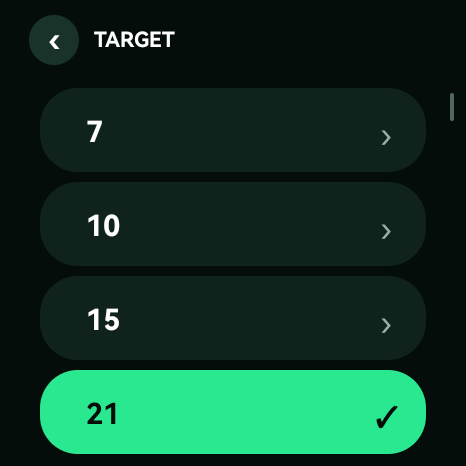
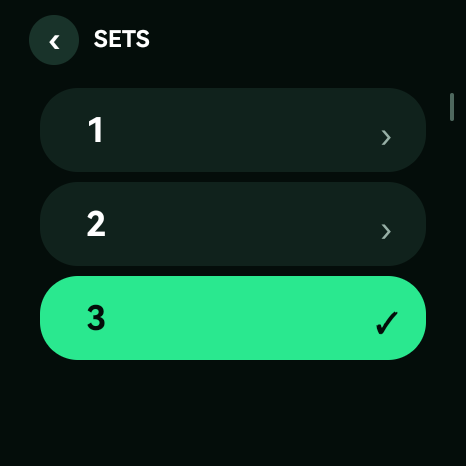
style: increase setup menu typography

diff --git a/entry/src/main/js/MainAbility/pages/index/index.css b/entry/src/main/js/MainAbility/pages/index/index.css
@@ -48,21 +48,21 @@
 
 .brand {
   color: #41d9ff;
-  font-size: 17px;
+  font-size: 19px;
   font-weight: 700;
   margin-top: 14px;
 }
 
 .page-title {
   color: #ffffff;
-  font-size: 23px;
+  font-size: 25px;
   font-weight: 700;
   text-align: center;
 }
 
 .mode-caption {
   color: #41d9ff;
-  font-size: 14px;
+  font-size: 15px;
   font-weight: 600;
   text-align: center;
   margin-top: 3px;
@@ -106,7 +106,7 @@
   height: 56px;
   border-radius: 28px;
   color: #ffffff;
-  font-size: 20px;
+  font-size: 26px;
   font-weight: 700;
   text-align: center;
 }
@@ -187,7 +187,7 @@
 .control-label {
   width: 120px;
   color: #eef3f0;
-  font-size: 16px;
+  font-size: 24px;
   font-weight: 700;
   margin-left: 10px;
 }
@@ -207,13 +207,13 @@
   border-radius: 27px;
   background-color: #252b36;
   color: #ffffff;
-  font-size: 28px;
+  font-size: 30px;
 }
 
 .number-value {
   width: 57px;
   color: #ffffff;
-  font-size: 28px;
+  font-size: 30px;
   font-weight: 700;
   text-align: center;
 }
@@ -237,7 +237,7 @@
 .toggle-label {
   width: 180px;
   color: #e9edf5;
-  font-size: 16px;
+  font-size: 24px;
   font-weight: 700;
   margin-left: 10px;
 }
@@ -257,7 +257,7 @@ switch {
   border-radius: 40px;
   background-color: #41d9ff;
   color: #071015;
-  font-size: 21px;
+  font-size: 26px;
   font-weight: 700;
 }
 

diff --git a/compat-android/src/com/vekom/padelprobe/MainActivity.java b/compat-android/src/com/vekom/padelprobe/MainActivity.java
@@ -248,17 +248,17 @@ public final class MainActivity extends Activity {
             rounded(canvas, 32, top, 434, top + ROW_HEIGHT, 40, panel);
             circleButton(canvas, 76, top + 45, 28, settingIcon(index),
                     settingColor(index), Color.WHITE, settingIcon(index).length() > 1 ? 14 : 19);
-            text(canvas, label.toUpperCase(), 120, top + 55, 20,
+            text(canvas, label.toUpperCase(), 120, top + 55, 24,
                     Color.WHITE, Paint.Align.LEFT, true);
             if (isNumericSetting(index)) {
-                text(canvas, value, 378, top + 56, 26,
+                text(canvas, value, 378, top + 56, 30,
                         green, Paint.Align.RIGHT, true);
                 text(canvas, "›", 412, top + 59, 36,
                         muted, Paint.Align.CENTER, false);
             } else {
                 rounded(canvas, 326, top + 25, 412, top + 65, 20,
                         isOnValue(value) ? green : panelLight);
-                text(canvas, value, 369, top + 52, 16,
+                text(canvas, value, 369, top + 52, 18,
                         isOnValue(value) ? background : Color.WHITE,
                         Paint.Align.CENTER, true);
             }
@@ -275,7 +275,7 @@ public final class MainActivity extends Activity {
                 boolean active = value == selected;
                 rounded(canvas, 40, top, 426, top + PICKER_HEIGHT, 38,
                         active ? green : panel);
-                text(canvas, Integer.toString(value), 86, top + 54, 29,
+                text(canvas, Integer.toString(value), 86, top + 54, 34,
                         active ? background : Color.WHITE, Paint.Align.LEFT, true);
                 if (active) {
                     text(canvas, "✓", 386, top + 57, 28,
@@ -297,9 +297,9 @@ public final class MainActivity extends Activity {
             paint.setStyle(Paint.Style.FILL);
             paint.setColor(background);
             canvas.drawRect(0, 0, BASE, 78, paint);
-            text(canvas, "PADEL SCORE", BASE / 2, 42, 26,
+            text(canvas, "PADEL SCORE", BASE / 2, 42, 28,
                     green, Paint.Align.CENTER, true);
-            text(canvas, "CHOOSE MATCH FORMAT", BASE / 2, 67, 12,
+            text(canvas, "CHOOSE MATCH FORMAT", BASE / 2, 67, 13,
                     muted, Paint.Align.CENTER, true);
         }
 
@@ -309,9 +309,9 @@ public final class MainActivity extends Activity {
             canvas.drawRect(0, 0, BASE, 78, paint);
             circleButton(canvas, 54, 40, 25, "‹", panelLight, Color.WHITE, 30);
             text(canvas, title, 94, subtitle.isEmpty() ? 47 : 36,
-                    subtitle.isEmpty() ? 21 : 18, Color.WHITE, Paint.Align.LEFT, true);
+                    subtitle.isEmpty() ? 23 : 20, Color.WHITE, Paint.Align.LEFT, true);
             if (!subtitle.isEmpty()) {
-                text(canvas, subtitle, 94, 57, 11, green, Paint.Align.LEFT, true);
+                text(canvas, subtitle, 94, 57, 12, green, Paint.Align.LEFT, true);
             }
         }
 
@@ -323,14 +323,14 @@ public final class MainActivity extends Activity {
             rounded(canvas, 32, top, 434, top + ROW_HEIGHT, 40, panelLight);
             circleButton(canvas, 76, top + 45, 28, "▶", green, background, 17);
             text(canvas, engine.state().completed ? "VIEW LAST MATCH" : "RESUME MATCH",
-                    120, top + 55, 20, Color.WHITE, Paint.Align.LEFT, true);
+                    120, top + 55, 24, Color.WHITE, Paint.Align.LEFT, true);
             text(canvas, "›", 412, top + 59, 36, muted, Paint.Align.CENTER, false);
         }
 
         private void drawModeRow(Canvas canvas, Mode mode, float top) {
             rounded(canvas, 32, top, 434, top + ROW_HEIGHT, 40, panel);
             drawModeIcon(canvas, mode, 76, top + 45);
-            text(canvas, shortMode(mode), 120, top + 55, 21,
+            text(canvas, shortMode(mode), 120, top + 55, 26,
                     Color.WHITE, Paint.Align.LEFT, true);
             text(canvas, "›", 412, top + 59, 36, muted, Paint.Align.CENTER, false);
         }
@@ -370,7 +370,7 @@ public final class MainActivity extends Activity {
             rounded(canvas, 32, top, 434, top + ROW_HEIGHT, 40, green);
             circleButton(canvas, 76, top + 45, 28, "▶", background,
                     green, 17);
-            text(canvas, "START", 120, top + 55, 22,
+            text(canvas, "START", 120, top + 55, 26,
                     background, Paint.Align.LEFT, true);
             text(canvas, "›", 412, top + 59, 36,
                     background, Paint.Align.CENTER, false);
